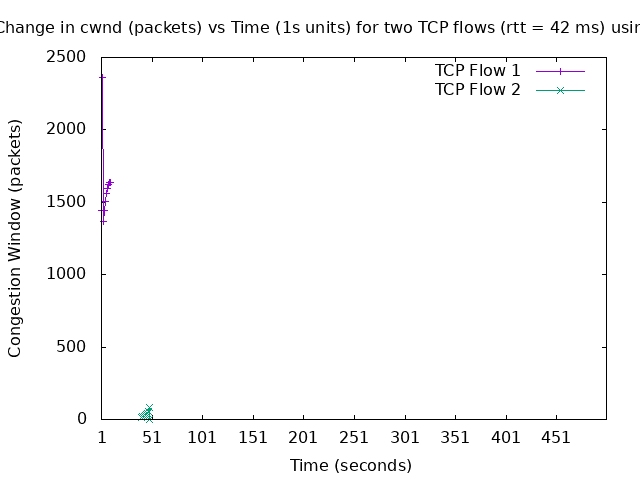
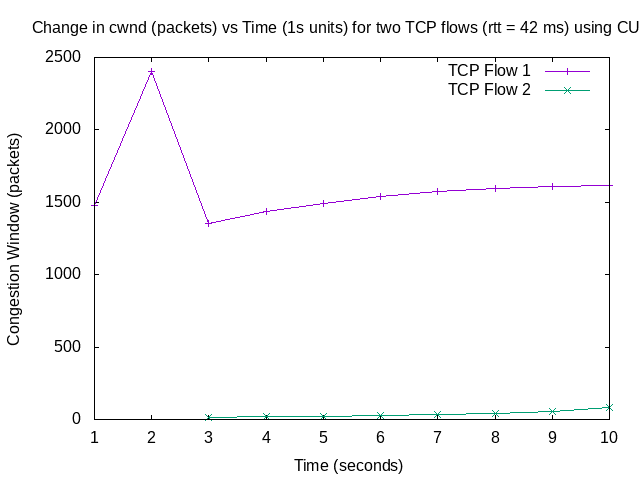
working???????????

diff --git a/dumbbell_topology.py b/dumbbell_topology.py
@@ -115,16 +115,16 @@ def run_tcp_tests_cwnd(algorithm, delay):
 	print("Dumping host connections")
 	dumpNodeConnections(net.hosts)
 	
-	CLI(net)
+	#CLI(net)
 	
 	h1, h2, h3, h4 = net.getNodeByName('h1', 'h2', 'h3', 'h4')
 	host_addr = dict({'h1': h1.IP(), 'h2': h2.IP(), 'h3': h3.IP(), 'h4': h4.IP()})
 	print('Host addresses: {0}'.format(host_addr))
 	
-	if (path.exists('cwnd_{0}_{1}_{2}'.format(algorithm, h1, delay))):
-		os.remove('cwnd_{0}_{1}_{2}'.format(algorithm, h1, delay))
-	if (path.exists('cwnd_{0}_{1}_{2}'.format(algorithm, h2, delay))):
-		os.remove('cwnd_{0}_{1}_{2}'.format(algorithm, h2, delay))
+	if (path.exists('results/cwnd_{0}_{1}_{2}'.format(algorithm, h1, delay))):
+		os.remove('results/cwnd_{0}_{1}_{2}'.format(algorithm, h1, delay))
+	if (path.exists('results/cwnd_{0}_{1}_{2}'.format(algorithm, h2, delay))):
+		os.remove('results/cwnd_{0}_{1}_{2}'.format(algorithm, h2, delay))
 
         h1_timeout = 500
         stagger_time = 62
@@ -139,7 +139,7 @@ def run_tcp_tests_cwnd(algorithm, delay):
 	time.sleep(5)
 	
 	print('Starting iperf client h1')
-	popens[h1] = h1.popen('nohup iperf3 -c {0} -p 5566 -t {1} -C {2} -i 1 > cwnd_{3}_{4}_{5} &'.format(h3.IP(), h1_timeout, algorithm, algorithm, h1, delay), shell=True)
+	popens[h1] = h1.popen('nohup iperf3 -c {0} -p 5566 -t {1} -C {2} -i 1 > results/cwnd_{3}_{4}_{5} &'.format(h3.IP(), h1_timeout, algorithm, algorithm, h1, delay), shell=True)
 	
         print('{0} delay for client h2'.format(stagger_time))
 	for i in range(stagger_time,0,-1):
@@ -147,14 +147,12 @@ def run_tcp_tests_cwnd(algorithm, delay):
 		print(i)
 
 	print('Starting iperf client h2')
-	popens[h2] = h2.popen('nohup iperf3 -c {0} -p 5566 -t {1} -C {2} -i 1 > cwnd_{3}_{4}_{5}'.format(h4.IP(), h2_timeout, algorithm, algorithm, h2, delay), shell=True)
+	popens[h2] = h2.popen('nohup iperf3 -c {0} -p 5566 -t {1} -C {2} -i 1 > results/cwnd_{3}_{4}_{5}'.format(h4.IP(), h2_timeout, algorithm, algorithm, h2, delay), shell=True)
 
 	print("Waiting for clients to finish...")
 	
-	popens[h2].wait()
-        popens[h1].wait()
-        popens[h2].terminate()
-        popens[h1].terminate()
+	popens[h2].communicate()
+        popens[h1].communicate()
 	popens[h3].terminate()
 	popens[h4].terminate()
 	
@@ -162,8 +160,8 @@ def run_tcp_tests_cwnd(algorithm, delay):
 	net.stop()
 	
 	print("Processing data")
-	gather_data(algorithm, delay, True)
-	plot_iperf(algorithm, delay, True)
+	gather_data(algorithm, delay, True, stagger_time)
+	plot_iperf(algorithm, delay, True, h1_timeout)
 
 
 def run_tcp_tests_fairness(algorithm, delay):
@@ -173,36 +171,36 @@ def run_tcp_tests_fairness(algorithm, delay):
 	
 	print("Dumping host connections")
 	dumpNodeConnections(net.hosts)
-	CLI(net)
+	#CLI(net)
 	
 	h1, h2, h3, h4 = net.getNodeByName('h1', 'h2', 'h3', 'h4')
 	host_addr = dict({'h1': h1.IP(), 'h2': h2.IP(), 'h3': h3.IP(), 'h4': h4.IP()})
 	print('Host addresses: {0}'.format(host_addr))
 	
-	if (path.exists('fair_{0}_{1}_{2}'.format(algorithm, h3, delay))):
-		os.remove('fair_{0}_{1}_{2}'.format(algorithm, h3, delay))
-	if (path.exists('fair_{0}_{1}_{2}'.format(algorithm, h4, delay))):
-		os.remove('fair_{0}_{1}_{2}'.format(algorithm, h4, delay))
+	if (path.exists('results/fair_{0}_{1}_{2}'.format(algorithm, h3, delay))):
+		os.remove('results/fair_{0}_{1}_{2}'.format(algorithm, h3, delay))
+	if (path.exists('results/fair_{0}_{1}_{2}'.format(algorithm, h4, delay))):
+		os.remove('results/fair_{0}_{1}_{2}'.format(algorithm, h4, delay))
 	
+        h1_timeout = 500
+
 	# run iperf
 	popens = dict()
 	print('Starting iperf server h3')
-	popens[h3] = h3.popen('iperf3 -s -p 5566 -i 1 -1 > fair_{0}_{1}_{2} &'.format(algorithm, h3, delay), shell=True)
+	popens[h3] = h3.popen('iperf3 -s -p 5566 -i 1 -1 > results/fair_{0}_{1}_{2} &'.format(algorithm, h3, delay), shell=True)
 	print('Starting iperf server h4')
-	popens[h4] = h4.popen('iperf3 -s -p 5566 -i 1 -1 > fair_{0}_{1}_{2} &'.format(algorithm, h4, delay), shell=True)
+	popens[h4] = h4.popen('iperf3 -s -p 5566 -i 1 -1 > results/fair_{0}_{1}_{2} &'.format(algorithm, h4, delay), shell=True)
 	time.sleep(5)
 	
 	print('Starting iperf client h1')
-	popens[h1] = h1.popen('iperf3 -c {0} -p 5566 -t 500 -C {1} &'.format(h3.IP(), algorithm), shell=True)
+	popens[h1] = h1.popen('iperf3 -c {0} -p 5566 -t {1} -C {2}'.format(h3.IP(), h1_timeout, algorithm), shell=True)
 	print('Starting iperf client h2')
-	popens[h2] = h2.popen('iperf3 -c {0} -p 5566 -t 500 -C {1}'.format(h4.IP(), algorithm), shell=True)
+	popens[h2] = h2.popen('iperf3 -c {0} -p 5566 -t {1} -C {2}'.format(h4.IP(), h1_timeout, algorithm), shell=True)
 	
 	print("Waiting for clients to finish...")
 		
-	popens[h1].wait()
-        popens[h2].wait()
-        popens[h2].terminate()
-        popens[h1].terminate()
+	popens[h1].communicate()
+        popens[h2].communicate()
 	popens[h3].terminate()
 	popens[h4].terminate()
 	
@@ -210,77 +208,81 @@ def run_tcp_tests_fairness(algorithm, delay):
 	net.stop()
 	
 	print("Processing data")
-	gather_data(algorithm, delay, False)
-	plot_iperf(algorithm, delay, False)
+	gather_data(algorithm, delay, False, h1_timeout)
+	plot_iperf(algorithm, delay, False, h1_timeout)
 	
 
-def gather_data(algorithm, delay, cwnd):
+def gather_data(algorithm, delay, cwnd, timeout2):
 	
 	if cwnd == True:
-		if (path.exists("{0}_h1_{1}_cwnd_new".format(algorithm, delay))):
-			os.remove("{0}_h1_{1}_cwnd_new".format(algorithm, delay))
-		if (path.exists("{0}_h2_{1}_cwnd_new".format(algorithm, delay))):
-			os.remove("{0}_h2_{1}_cwnd_new".format(algorithm, delay))
+		if (path.exists("results/{0}_h1_{1}_cwnd_new".format(algorithm, delay))):
+			os.remove("results/{0}_h1_{1}_cwnd_new".format(algorithm, delay))
+		if (path.exists("results/{0}_h2_{1}_cwnd_new".format(algorithm, delay))):
+			os.remove("results/{0}_h2_{1}_cwnd_new".format(algorithm, delay))
 		print("Creating the files for IPERF to plot the CWND graph")
-		subprocess.Popen("cat cwnd_{0}_h1_{1} | grep sec | head -500 | tr - \" \" | awk '{{if ($12 == \"KBytes\")print $4, int($11*1000)/(1500); else if ($12 == \"MBytes\")print $4, int($11*1000000)/(1500); else print($11)/(1500);}}'> {2}_h1_{3}_cwnd_new".format(algorithm,delay,algorithm,delay), shell=True)
-		subprocess.Popen("cat cwnd_{0}_h2_{1} | grep sec | head -500 | tr - \" \" | awk '{{if ($12 == \"KBytes\")print 40+$4, int($11*1000)/(1500); else if ($12 == \"MBytes\")print 40+$4, int($11*1000000)/(1500); else print 40+$4, ($11)/(1500);}}' > {2}_h2_{3}_cwnd_new".format(algorithm,delay,algorithm,delay), shell=True)
+		subprocess.Popen("cat results/cwnd_{0}_h1_{1} | grep sec | head -n -2 | tr - \" \" | awk '{{if ($12 == \"KBytes\")print $4, int($11*1000)/(1500); else if ($12 == \"MBytes\")print $4, int($11*1000000)/(1500); else print($11)/(1500);}}'> results/{2}_h1_{3}_cwnd_new".format(algorithm,delay,algorithm,delay), shell=True)
+		subprocess.Popen("cat results/cwnd_{0}_h2_{1} | grep sec | head -n -2 | tr - \" \" | awk '{{if ($12 == \"KBytes\")print {2}+$4, int($11*1000)/(1500); else if ($12 == \"MBytes\")print {2}+$4, int($11*1000000)/(1500); else print {2}+$4, ($11)/(1500);}}' > results/{3}_h2_{4}_cwnd_new".format(algorithm,delay,timeout2,algorithm,delay), shell=True)
 		print("Done") 
 	else:
-		if (path.exists("{0}_h3_{1}_fair_new".format(algorithm, delay))):
-			os.remove("{0}_h3_{1}_fair_new".format(algorithm, delay))
-		if (path.exists("{0}_h4_{1}_fair_new".format(algorithm, delay))):
-			os.remove("{0}_h4_{1}_fair_new".format(algorithm, delay))
+		if (path.exists("results/{0}_h3_{1}_fair_new".format(algorithm, delay))):
+			os.remove("results/{0}_h3_{1}_fair_new".format(algorithm, delay))
+		if (path.exists("results/{0}_h4_{1}_fair_new".format(algorithm, delay))):
+			os.remove("results/{0}_h4_{1}_fair_new".format(algorithm, delay))
 		print("Creating the files for IPERF to plot the TCP fairness graph")
-		subprocess.Popen("cat fair_{0}_h3_{1} | grep sec | head -500 | tr - \" \" | awk '{{print $4, $8}}' > {2}_h3_{3}_fair_new".format(algorithm,delay,algorithm,delay), shell=True)
-                subpr:ocess.Popen("cat fair_{0}_h4_{1} | grep sec | head -500 | tr - \" \" | awk '{{print $4, $8}}' > {2}_h4_{3}_fair_new".format(algorithm,delay,algorithm,delay), shell=True)
+		subprocess.Popen("cat results/fair_{0}_h3_{1} | grep sec | head -n -2 | tr - \" \" | awk '{{print $4, $8}}' > results/{2}_h3_{3}_fair_new".format(algorithm,delay,algorithm,delay), shell=True)
+                subprocess.Popen("cat results/fair_{0}_h4_{1} | grep sec | head -n -2 | tr - \" \" | awk '{{print $4, $8}}' > results/{2}_h4_{3}_fair_new".format(algorithm,delay,algorithm,delay), shell=True)
 		print("Done") 
 
 
-def plot_iperf(algorithm, delay, cwnd):
+def plot_iperf(algorithm, delay, cwnd, timeout):
 	if cwnd == True:		
-		if (path.exists("{0}_{1}_cwnd.png".format(algorithm, delay))):
-			os.remove("{0}_{1}_cwnd.png".format(algorithm, delay))
+		if (path.exists("results/{0}_{1}_cwnd.png".format(algorithm, delay))):
+			os.remove("results/{0}_{1}_cwnd.png".format(algorithm, delay))
 		print("Creating the plots for IPERF for the CWND graph")
-		plot1 = subprocess.Popen(["gnuplot"], stdin=subprocess.PIPE, encoding='utf8')
-		plot1.stdin.write("plot \"{0}_h1_{1}_cwnd_new\" title \"TCP Flow 1\" with linespoints, \"{0}_h2_{1}_cwnd_new\" title \"TCP Flow 2\" with linespoints\n".format(algorithm, delay))
-		plot1.stdin.write("set xrange[1:500]\n")
-		plot1.stdin.write("set xtics 1,50,500\n")
+		plot1 = subprocess.Popen(["gnuplot"], stdin=subprocess.PIPE)
+                plot1.stdin.write("plot \"results/{0}_h1_{1}_cwnd_new\" title \"TCP Flow 1\" with linespoints, \"results/{0}_h2_{1}_cwnd_new\" title \"TCP Flow 2\" with linespoints\n".format(algorithm, delay))
+		plot1.stdin.write("set xrange[1:{0}]\n".format(timeout))
+		plot1.stdin.write("set xtics 1,{0},{1}\n".format(int(timeout/10),timeout))
 		plot1.stdin.write("set title \"Change in cwnd (packets) vs Time (1s units) for two TCP flows (rtt = {0} ms) using {1}\"\n".format(delay*2, algorithm.upper()))
 		plot1.stdin.write("set xlabel \"Time (seconds)\"\n")
 		plot1.stdin.write("set ylabel \"Congestion Window (packets)\"\n")
 		plot1.stdin.write("set terminal png\n")
-		plot1.stdin.write("set output \"{0}_{1}_cwnd.png\"\n".format(algorithm, delay))
+		plot1.stdin.write("set output \"results/{0}_{1}_cwnd.png\"\n".format(algorithm, delay))
 		plot1.stdin.write("replot\n")
 		plot1.stdin.write("exit\n")
+                plot1.communicate()
 	else:
-		if (path.exists("{0}_{1}_fair.png".format(algorithm, delay))):
-			os.remove("{0}_{1}_fair.png".format(algorithm, delay))
+		if (path.exists("results/{0}_{1}_fair.png".format(algorithm, delay))):
+			os.remove("results/{0}_{1}_fair.png".format(algorithm, delay))
 		print("Creating the plots for IPERF for the TCP fairness graph")
-		plot1 = subprocess.Popen(["gnuplot"], stdin=subprocess.PIPE, encoding='utf8')
-		plot1.stdin.write("plot \"{0}_h3_{1}_fair_new\" title \"TCP Flow 1\" with linespoints, \"{0}_h4_{1}_fair_new\" title \"TCP Flow 2\" with linespoints\n".format(algorithm, delay))
+		plot1 = subprocess.Popen(["gnuplot"], stdin=subprocess.PIPE)
+		plot1.stdin.write("plot \"results/{0}_h3_{1}_fair_new\" title \"TCP Flow 1\" with linespoints, \"results/{0}_h4_{1}_fair_new\" title \"TCP Flow 2\" with linespoints\n".format(algorithm, delay))
 
-		plot1.stdin.write("set xrange[1:500]\n")
-		plot1.stdin.write("set xtics 1,50,500\n")
+		plot1.stdin.write("set xrange[1:{0}]\n".format(timeout))
+		plot1.stdin.write("set xtics 1,{0},{1}\n".format(int(timeout/10),timeout))
 		plot1.stdin.write("set title \"Change in Throughput (Mbps) vs Time (1s units) for two TCP flows (rtt = {0} ms) using {1}\"\n".format(delay*2, algorithm.upper()))
 		plot1.stdin.write("set xlabel \"Time (seconds)\"\n")
 		plot1.stdin.write("set ylabel \"Throughput (Mbps)\"\n")
 		plot1.stdin.write("set terminal png\n")
-		plot1.stdin.write("set output \"{0}_{1}_fair.png\"\n".format(algorithm, delay))
+		plot1.stdin.write("set output \"results/{0}_{1}_fair.png\"\n".format(algorithm, delay))
 		plot1.stdin.write("replot\n")
 		plot1.stdin.write("exit\n")
+                plot1.communicate()
 
 def clean_topology():
     print("Cleaning mininet")
     clean1 = subprocess.Popen("sudo mn -c", shell=True)
-    clean1.wait()
+    clean1.communicate()
     clean2 = subprocess.Popen("sudo pkill -9 iperf", shell=True)
-    clean2.wait()
+    clean2.communicate()
 
 
 if __name__ == '__main__':
-	delay = [21, 81, 162]
-	algorithm = ['cubic', 'reno' 'westwood', 'vegas']
-	
+	#delay = [21, 81, 162]
+	#algorithm = ['cubic', 'reno' 'westwood', 'vegas']
+	delay = [21]
+        algorithm = ['cubic']
+
 	setLogLevel('info')
 	
 	#for y in delay:
@@ -295,6 +297,3 @@ if __name__ == '__main__':
 			clean_topology()
 			print("TCP Fairness for {0} {1}".format(x, y))
 			run_tcp_tests_fairness(x, y)
-			clean_topology()
-	
-

diff --git a/README.md b/README.md
@@ -8,7 +8,6 @@ Algorithms:
   * Vegas
 
 Make sure to install the following packages before running: 
-`sudo apt-get install python`
 `sudo apt-get install gnuplot`
 `sudo apt-get install iperf3`
 
